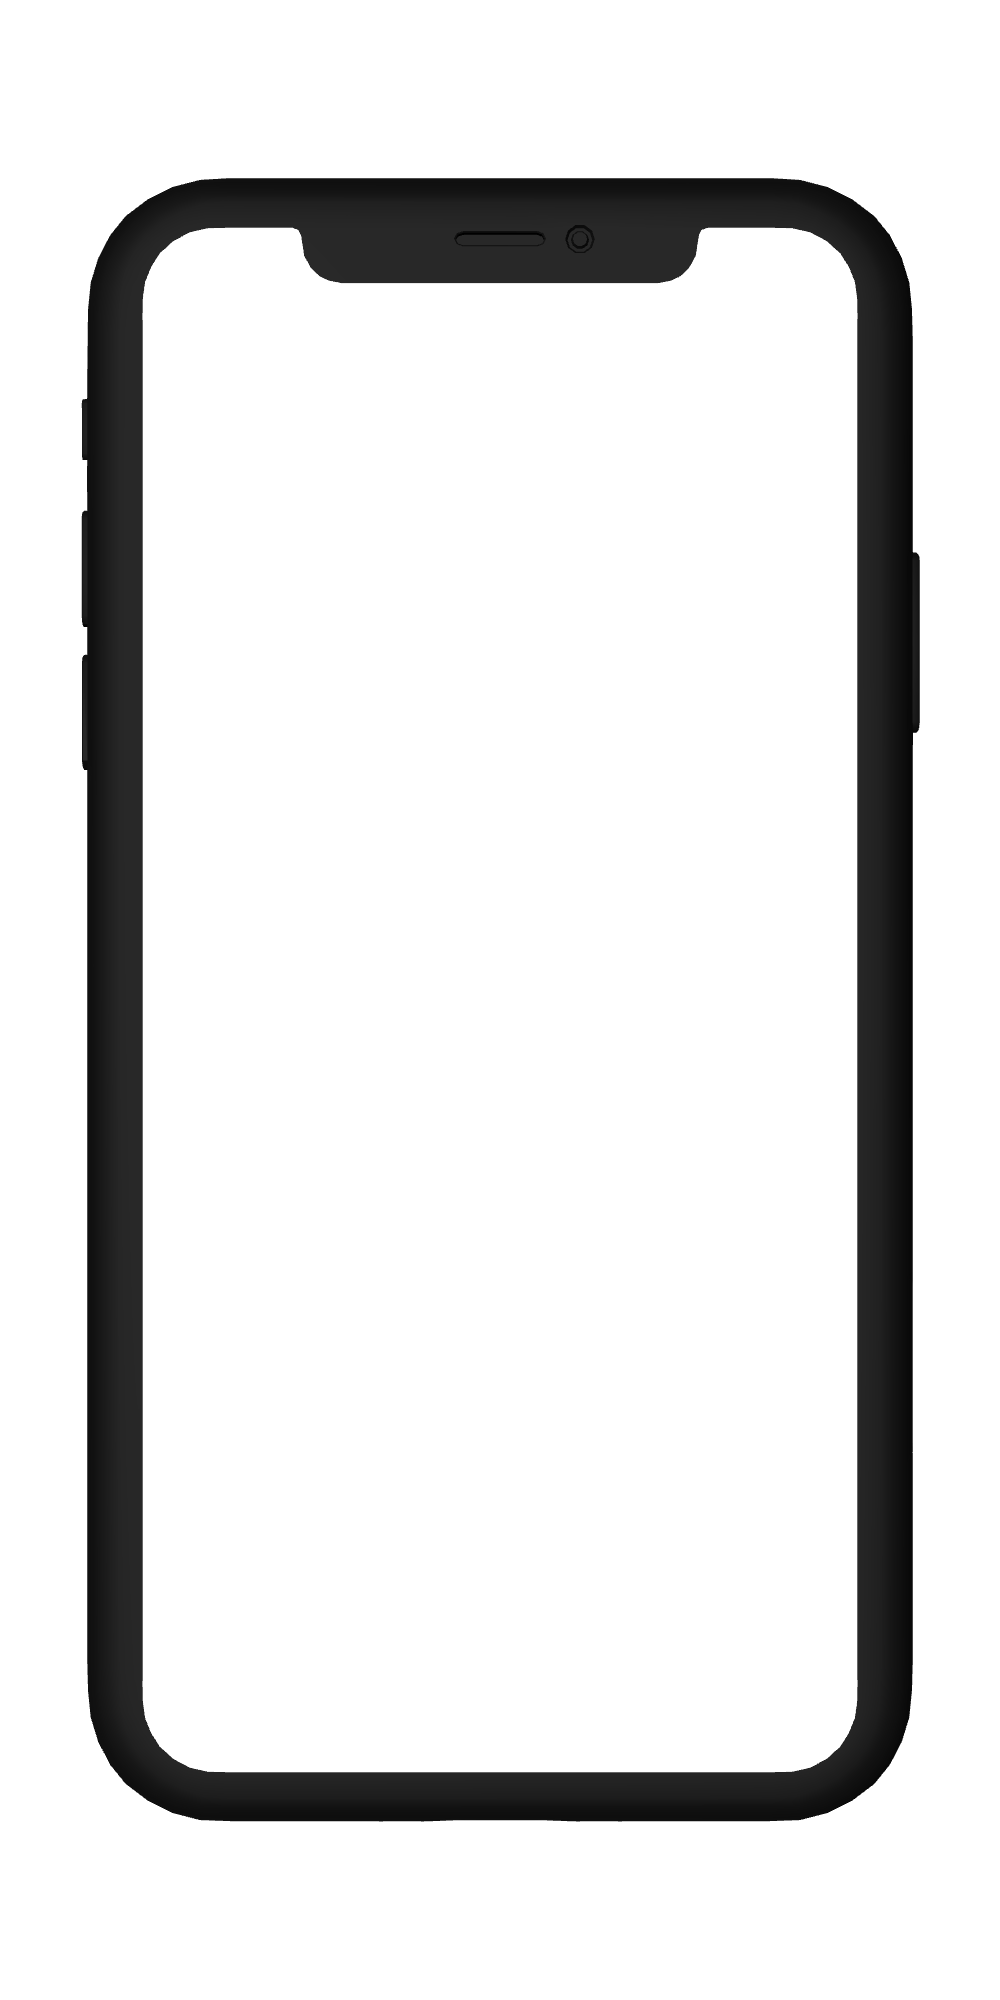
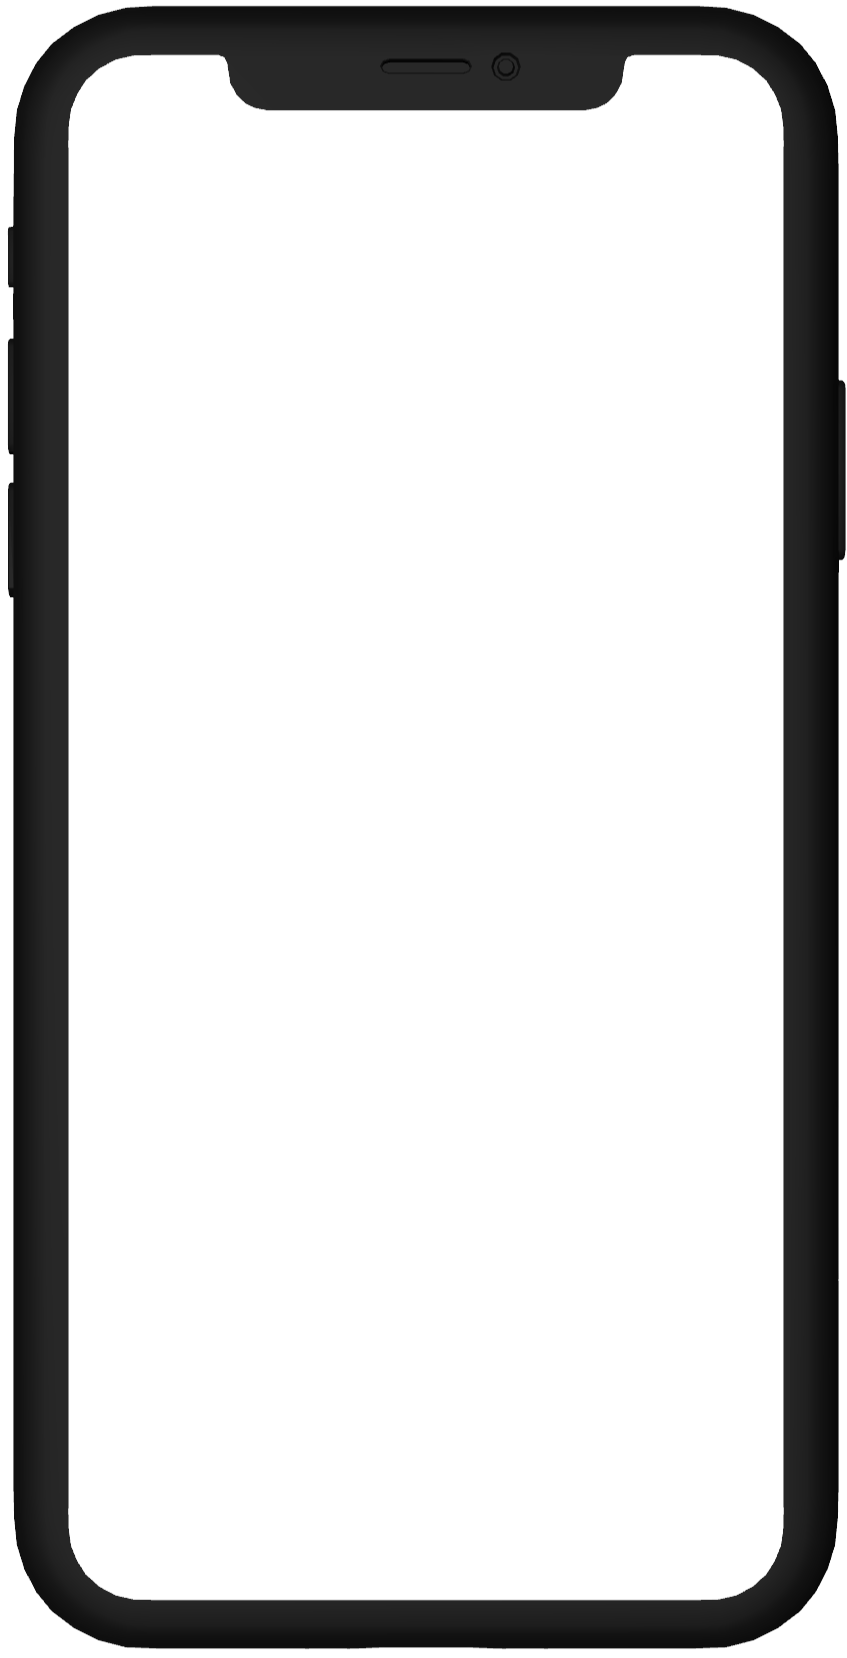
mockup css

diff --git a/src/Components/Freelance/Freelance.css b/src/Components/Freelance/Freelance.css
@@ -1,4 +1,4 @@
-.carousel-container {
+.carouselContainer {
   display: flex;
   flex-direction: column;
   align-items: center;
@@ -6,17 +6,17 @@
 
 .carousel {
   display: flex;
-  overflow-x: auto; /* Permite el desplazamiento horizontal */
-  scroll-behavior: smooth; /* Suaviza el desplazamiento */
-  width: 100%; /* Ocupa todo el ancho disponible */
-  padding: 20px 0; /* Espaciado superior e inferior */
+  overflow-x: auto; 
+  scroll-behavior: smooth; 
+  width: 100%; 
+  padding: 20px 0; 
 }
 
 .mockupWrapper {
-  min-width: 30%; /* Asegura que cada mockup ocupe el 30% del contenedor */
-  margin: 0 10px; /* Espaciado entre imágenes */
+  min-width: 30%;
+  margin: 0 10px;
   cursor: pointer;
-  transition: transform 0.3s; /* Suaviza la animación */
+  transition: transform 0.3s;
 }
 
 .mockupWrapper:hover {
@@ -42,6 +42,7 @@
   opacity: 0;
   transform: scale(0.8);
   transition: opacity 0.5s ease, transform 0.5s ease;
+  overflow: hidden;
 }
 
 .mockupFrame {
@@ -49,25 +50,35 @@
   height: 80%; /* Ajusta la altura del mockup */
   position: relative; /* Para permitir que el iframe se posicione dentro */
   overflow: hidden; /* Para que el iframe no sobresalga */
-  background-image: url('/../../assets/webs/mockup.png'); /* Tu mockup vacío */
+  background-image: url('/src/assets/webs/mockupblanco.png'); /* Tu mockup vacío */
   background-size: contain; /* Para que el mockup se ajuste al contenedor */
   background-repeat: no-repeat; /* No repetir la imagen */
+  background-position: center; /* Centra la imagen del mockup */
   display: flex;
   justify-content: center;
   align-items: center;
+  z-index: 5;
+  padding: 0 8%;
 }
 
 #projectIframe {
-  width: 100%; /* Ocupa todo el espacio disponible */
-  height: 100%; /* Ocupa todo el espacio disponible */
-  border: none; /* Quita el borde del iframe */
+  width: 100%; 
+  height: 100%; 
+  border: none; 
+  z-index: 1;
+  transform-origin: center;
+  transform: scale(0.9); /* Ajusta el valor según cómo quieras escalar */
+  overflow: hidden !important;
 }
 
 #closeIframe {
   position: absolute;
-  top: 20px;
-  right: 20px;
-  padding: 10px;
+  top: 0;
+  right: 2%;
+  border-radius: 50%;
+  font-size: 20px;
+  font-weight: 700;
+  padding: 10px 13px;
   background-color: white;
   border: none;
   cursor: pointer;
